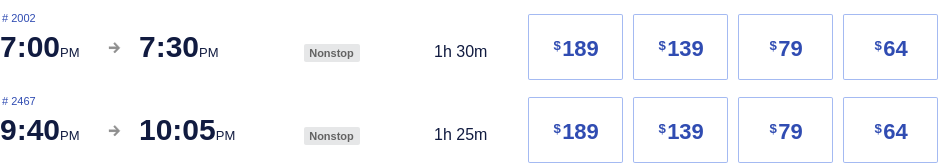
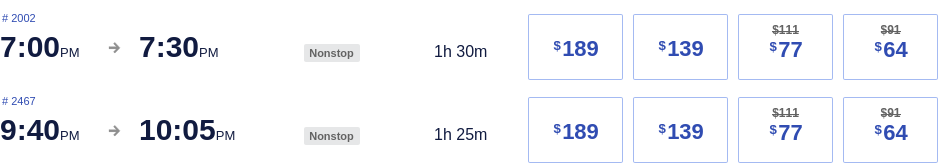
Latest scraping states: Tue Aug 22 05:45:48 UTC 2023

diff --git a/scrapes/states/southwest-01-04.md b/scrapes/states/southwest-01-04.md
@@ -8,7 +8,7 @@
     
     1h 30m
     
-    64 Dollars$64
+    91 Dollars$9164 Dollars$64
     
 * \# 2467 Opens flyout.
     
@@ -20,7 +20,7 @@
     
     1h 25m
     
-    64 Dollars$64
+    91 Dollars$9164 Dollars$64
     
 
 ![](southwest-01-04.png)
